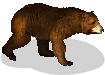
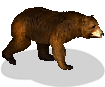
bear image modified

diff --git a/game/game.js b/game/game.js
@@ -335,7 +335,7 @@ function Bear() {
     this.drawX = 0;
     this.drawY = Math.floor(Math.random() * gameHeight);
     this.width = 105; 
-    this.height = 75;
+    this.height = 83;
     this.speed = player.speed * 0.9;
 }
 
